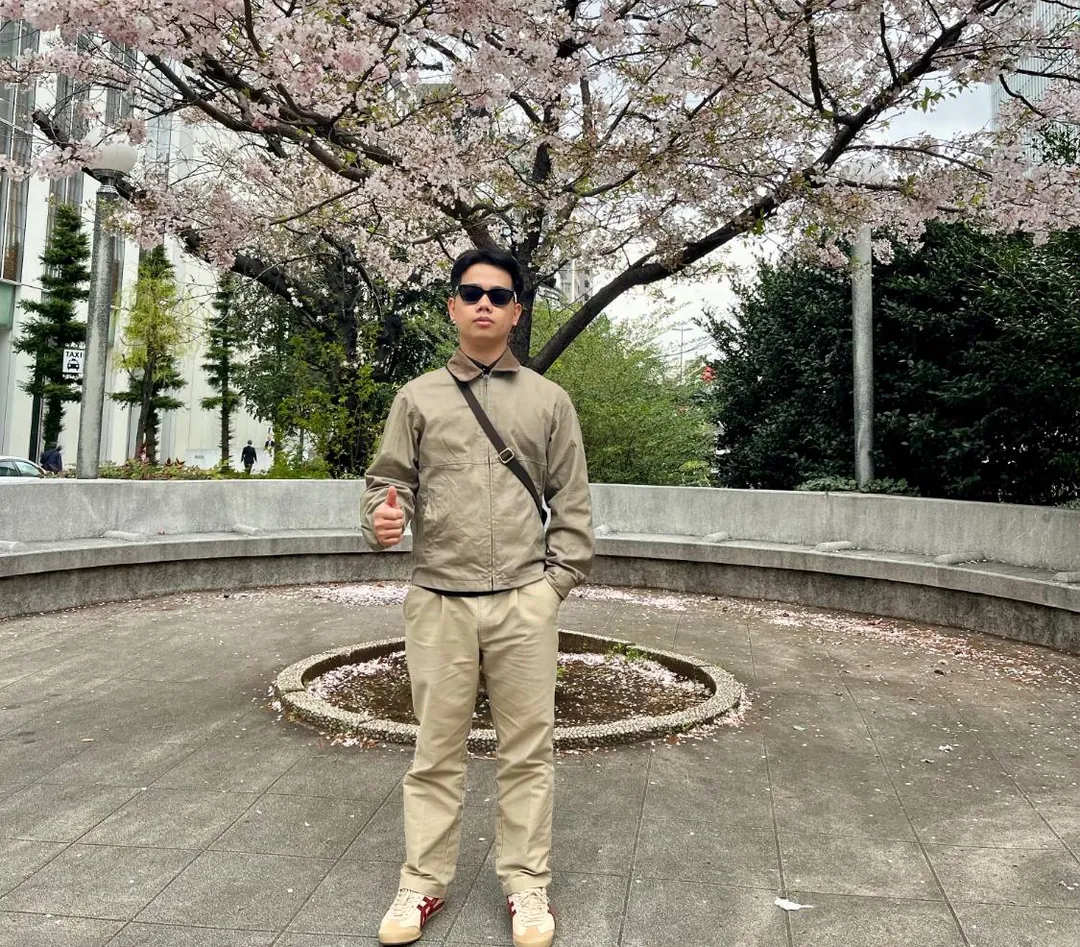
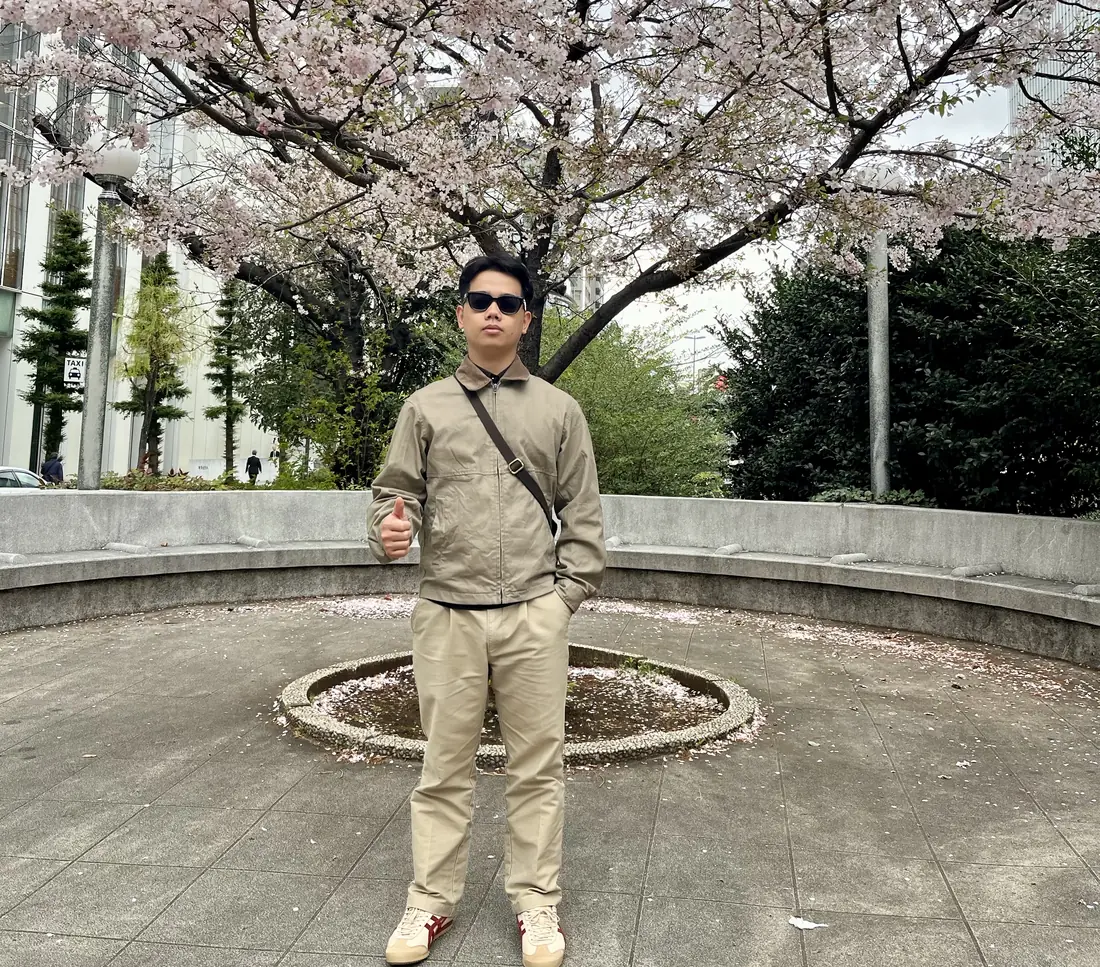
About: seven portraits in rotation, sharper cherry-tree shots
- Five new photos (marathon, Fansipan peak and selfie, old street, lake),
  each with its own desktop and phone object-position so the crop stays on
  the person
- The two cherry-tree photos are re-exported from the full-resolution
  originals (1600 px tall for retina panels)
- Only the photo that comes next is fetched, instead of all of them at once
- image/ (the multi-MB originals) is ignored; the site ships photos/*.webp

diff --git a/portfolio.html b/portfolio.html
@@ -718,8 +718,13 @@ const PROFILE = {
   // About portraits: they take turns every few seconds. src = desktop (tall panel), m = phones (wide panel);
   // pos / mpos = object-position, so the crop stays on the person. An empty list shows a placeholder.
   photos: [
-    { src: "photos/me-1.webp", m: "photos/me-1-m.webp", pos: "55% 50%", mpos: "70% 50%" },
-    { src: "photos/me-2.webp", m: "photos/me-2-m.webp", pos: "32% 50%", mpos: "50% 50%" },
+    { src: "photos/me-1.webp", m: "photos/me-1-m.webp", pos: "48% 50%", mpos: "70% 50%" },   // cherry tree, leaning
+    { src: "photos/me-4.webp", pos: "48% 50%", mpos: "50% 85%" },                             // marathon finish
+    { src: "photos/me-3.webp", pos: "0% 50%", mpos: "50% 100%" },                             // Fansipan peak
+    { src: "photos/me-2.webp", m: "photos/me-2-m.webp", pos: "32% 50%", mpos: "50% 50%" },   // cherry tree, standing
+    { src: "photos/me-6.webp", pos: "42% 50%", mpos: "50% 90%" },                             // old street
+    { src: "photos/me-7.webp", pos: "55% 50%", mpos: "50% 100%" },                            // lake view
+    { src: "photos/me-5.webp", pos: "30% 50%", mpos: "35% 50%" },                             // Fansipan selfie
   ],
   heroVideo: "LGO0C7Dh8UM",   // YouTube id played blurred behind the hero (only on the real site, not inside Claude's preview)
   linkedin: "https://www.linkedin.com/in/dungntgd/",
@@ -920,7 +925,8 @@ function storeLabel(g) { return g.store === "App Store" ? "Open on the App Store
   if (photos.length > 1) (function cyclePhotos() {
     const box = $("aboutPhoto"), all = [...box.querySelectorAll(".pt")];
     let cur = 0, seen = false;
-    new IntersectionObserver(([e]) => { seen = e.isIntersecting; if (seen) all.forEach(p => p.querySelector("img").loading = "eager"); }, { rootMargin: "200px" }).observe(box);
+    const warm = (k) => { all[k].querySelector("img").loading = "eager"; }; // fetch only the photo that comes next
+    new IntersectionObserver(([e]) => { seen = e.isIntersecting; if (seen) warm((cur + 1) % all.length); }, { rootMargin: "200px" }).observe(box);
     setInterval(() => {
       if (!seen || document.hidden || view !== "home") return; // only turn while someone can see it
       const next = (cur + 1) % all.length, img = all[next].querySelector("img");
@@ -929,6 +935,7 @@ function storeLabel(g) { return g.store === "App Store" ? "Open on the App Store
       all[cur].classList.replace("on", "was");
       all[next].classList.add("on");
       cur = next;
+      warm((cur + 1) % all.length);
     }, 5500);
   })();
 

diff --git a/site/index.html b/site/index.html
@@ -727,8 +727,13 @@ const PROFILE = {
   // About portraits: they take turns every few seconds. src = desktop (tall panel), m = phones (wide panel);
   // pos / mpos = object-position, so the crop stays on the person. An empty list shows a placeholder.
   photos: [
-    { src: "photos/me-1.webp", m: "photos/me-1-m.webp", pos: "55% 50%", mpos: "70% 50%" },
-    { src: "photos/me-2.webp", m: "photos/me-2-m.webp", pos: "32% 50%", mpos: "50% 50%" },
+    { src: "photos/me-1.webp", m: "photos/me-1-m.webp", pos: "48% 50%", mpos: "70% 50%" },   // cherry tree, leaning
+    { src: "photos/me-4.webp", pos: "48% 50%", mpos: "50% 85%" },                             // marathon finish
+    { src: "photos/me-3.webp", pos: "0% 50%", mpos: "50% 100%" },                             // Fansipan peak
+    { src: "photos/me-2.webp", m: "photos/me-2-m.webp", pos: "32% 50%", mpos: "50% 50%" },   // cherry tree, standing
+    { src: "photos/me-6.webp", pos: "42% 50%", mpos: "50% 90%" },                             // old street
+    { src: "photos/me-7.webp", pos: "55% 50%", mpos: "50% 100%" },                            // lake view
+    { src: "photos/me-5.webp", pos: "30% 50%", mpos: "35% 50%" },                             // Fansipan selfie
   ],
   heroVideo: "LGO0C7Dh8UM",   // YouTube id played blurred behind the hero (only on the real site, not inside Claude's preview)
   linkedin: "https://www.linkedin.com/in/dungntgd/",
@@ -929,7 +934,8 @@ function storeLabel(g) { return g.store === "App Store" ? "Open on the App Store
   if (photos.length > 1) (function cyclePhotos() {
     const box = $("aboutPhoto"), all = [...box.querySelectorAll(".pt")];
     let cur = 0, seen = false;
-    new IntersectionObserver(([e]) => { seen = e.isIntersecting; if (seen) all.forEach(p => p.querySelector("img").loading = "eager"); }, { rootMargin: "200px" }).observe(box);
+    const warm = (k) => { all[k].querySelector("img").loading = "eager"; }; // fetch only the photo that comes next
+    new IntersectionObserver(([e]) => { seen = e.isIntersecting; if (seen) warm((cur + 1) % all.length); }, { rootMargin: "200px" }).observe(box);
     setInterval(() => {
       if (!seen || document.hidden || view !== "home") return; // only turn while someone can see it
       const next = (cur + 1) % all.length, img = all[next].querySelector("img");
@@ -938,6 +944,7 @@ function storeLabel(g) { return g.store === "App Store" ? "Open on the App Store
       all[cur].classList.replace("on", "was");
       all[next].classList.add("on");
       cur = next;
+      warm((cur + 1) % all.length);
     }, 5500);
   })();
 
